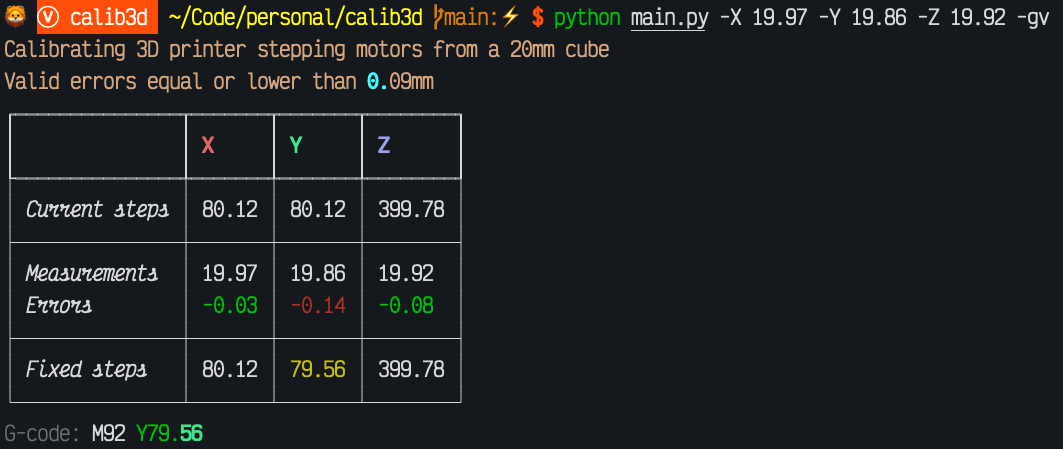
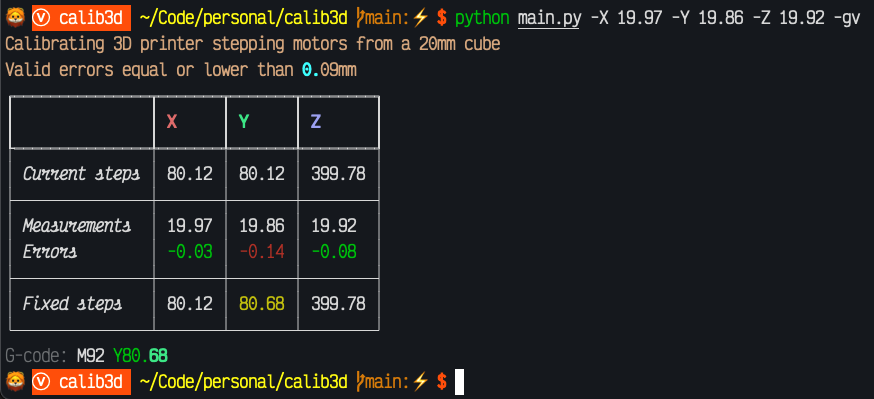
Fix error on step calc

Changed region(s): [[0.0, 0.2406, 0.5561, 0.9925], [0.0, 0.0, 0.9886, 0.2105]]

diff --git a/calib3d/core.py b/calib3d/core.py
@@ -25,14 +25,14 @@ class Calibration:
         self.steps = {}
         for axis, measurement in self.measurements.items():
             if self.valid_errors[axis]:
-                step = self.config['steps'][axis]
+                result = self.config['steps'][axis]
             else:
-                step = (
-                    measurement
+                result = (
+                    self.config['calcube']['side']
                     * self.config['steps'][axis]
-                    / self.config['calcube']['side']
+                    / measurement
                 )
-            self.steps[axis] = step
+            self.steps[axis] = result
 
     def update_steps(self):
         self.config['steps'] = self.steps
